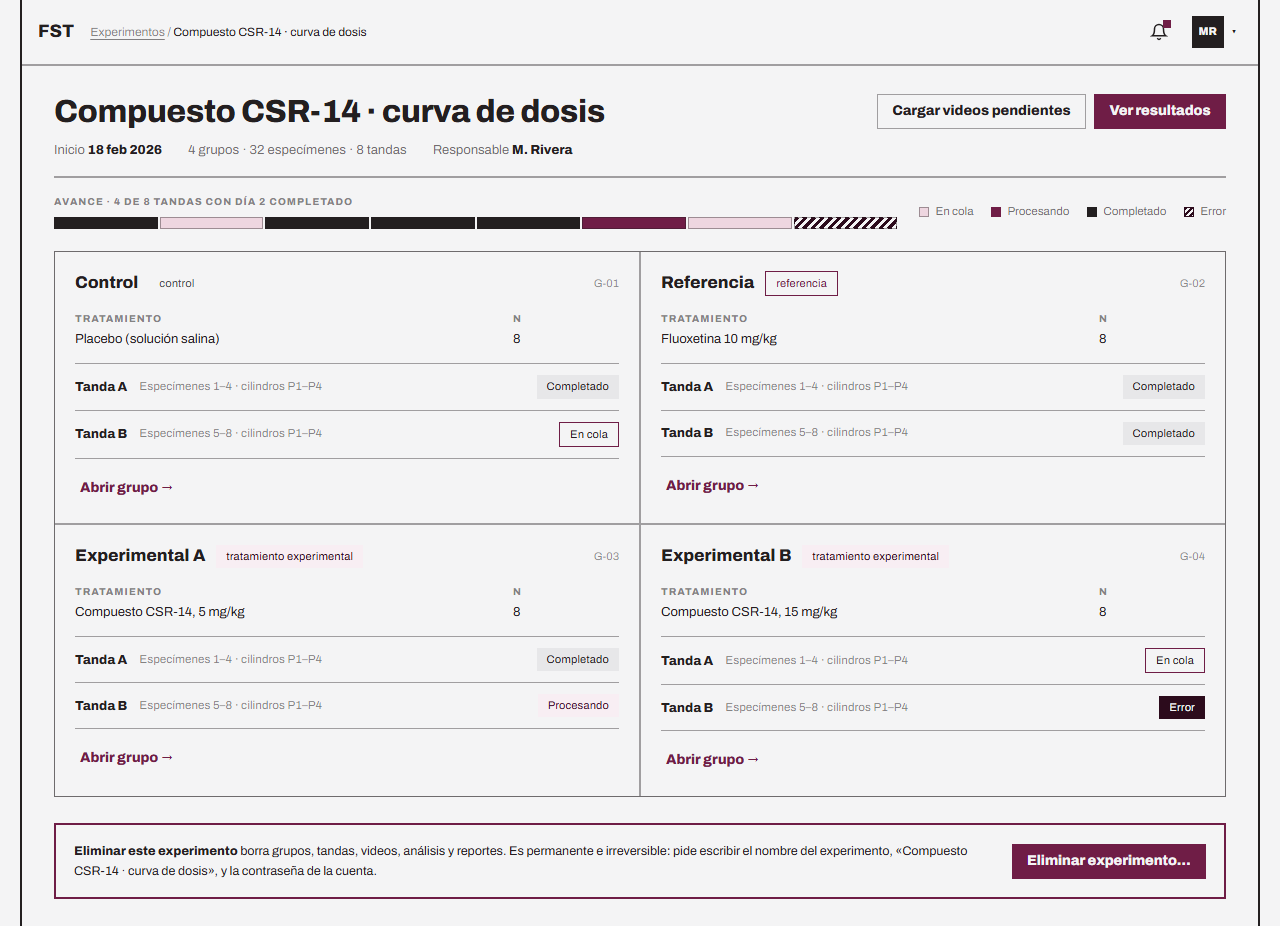
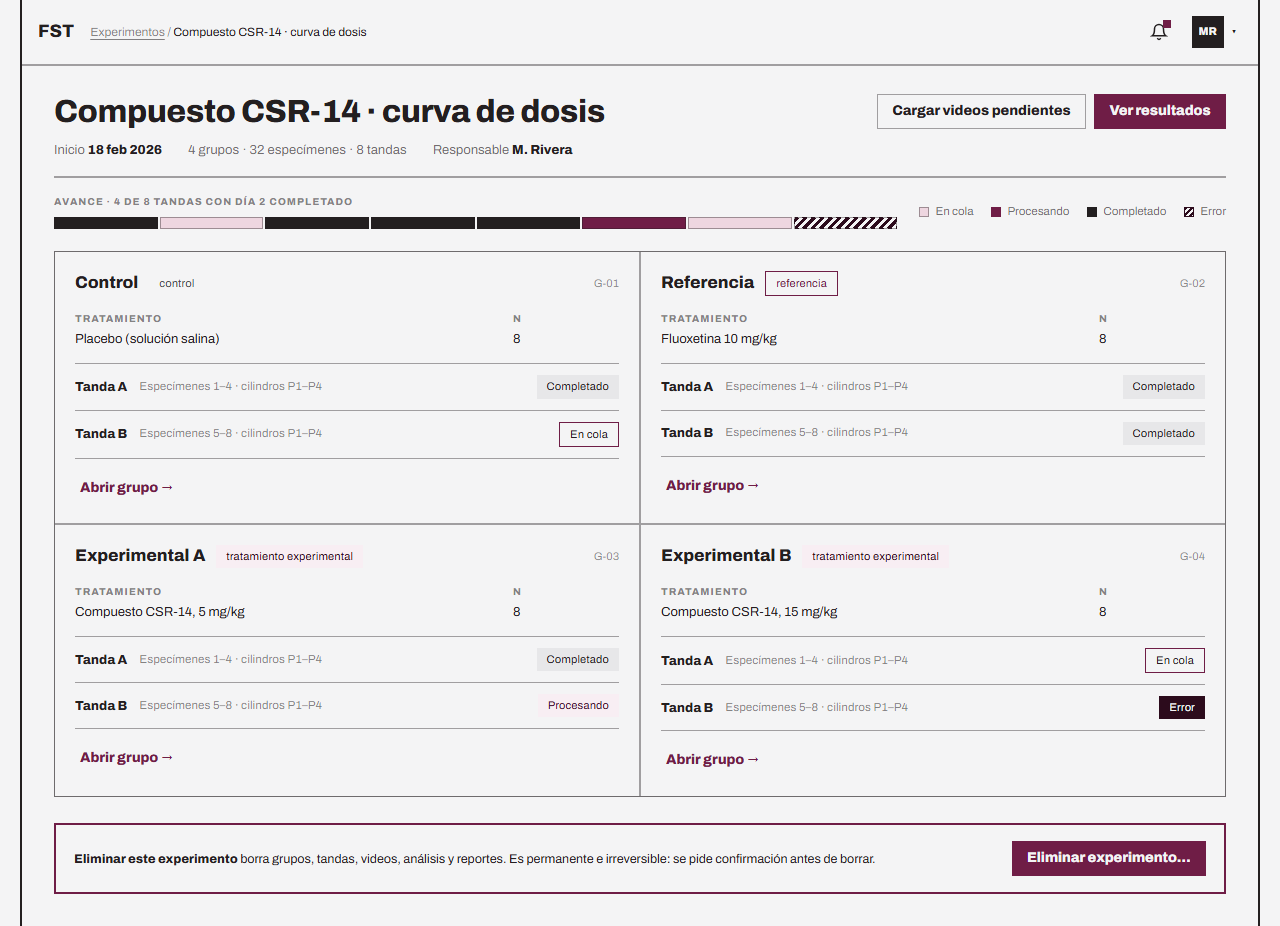
Actualizar los mockups de eliminar experimento según D-63
El detalle del experimento ya no pide el nombre ni la contraseña: el diálogo
pregunta si se quiere eliminar, recuerda que es permanente e irreversible y
ofrece «Eliminar experimento» y «Cancelar», con el foco en «Cancelar». El aviso
del pie dice que se pide confirmación antes de borrar.

La lista de experimentos agrega la acción «Eliminar…» en cada fila que el
usuario puede borrar (quien lo creó o un administrador) con el mismo diálogo, y
su nota ya no dice que la acción solo vive en el detalle. Se regeneran las
capturas de experimento y experimentos que entran al capítulo 5.

Changed region(s): [[0.0625, 0.9071, 0.75, 0.9676], [0.7812, 0.9071, 0.9375, 0.9676]]

diff --git a/mockups/v2/experimentos.html b/mockups/v2/experimentos.html
@@ -40,13 +40,25 @@
 
     <table class="table">
       <thead><tr>
-        <th style="width:29%">Experimento</th><th>Grupos</th><th>Especímenes</th><th style="width:14%">Videos Día 2</th><th>Estado</th><th>Responsable</th><th>Retención</th><th>Reporte</th>
+        <th style="width:29%">Experimento</th><th>Grupos</th><th>Especímenes</th><th style="width:14%">Videos Día 2</th><th>Estado</th><th>Responsable</th><th>Retención</th><th>Reporte</th><th>Acciones</th>
       </tr></thead>
       <tbody id="rows"></tbody>
     </table>
     <p id="empty" class="hint hidden" style="margin:14px 0 0">Ningún experimento coincide con la búsqueda.</p>
-    <p style="margin:14px 0 0;font-size:11.5px;color:var(--muted)">Eliminar un experimento es permanente e irreversible: la acción vive dentro del detalle del experimento, nunca en esta lista.</p>
+    <p style="margin:14px 0 0;font-size:11.5px;color:var(--muted)">Eliminar un experimento es permanente e irreversible: se puede hacer desde esta lista o desde el detalle del experimento, y solo lo puede hacer quien lo creó o un administrador. Antes de borrar se pide confirmación.</p>
   </div>
+</div>
+
+<!-- diálogo de eliminación -->
+<div class="dialog-backdrop hidden" id="dlg">
+  <form class="dialog" id="fDel" novalidate role="dialog" aria-modal="true" aria-labelledby="dlgT">
+    <div class="dialog-title" id="dlgT">Eliminar experimento</div>
+    <div class="dialog-body" style="font-size:12.5px;line-height:1.6">¿Eliminar «<span id="dlgNombre"></span>»? Borra grupos, tandas, videos, análisis y reportes. Es permanente e irreversible.</div>
+    <div class="dialog-actions" style="justify-content:flex-start">
+      <button type="submit" class="btn btn-primary" id="dOk">Eliminar experimento</button>
+      <button type="button" class="btn btn-secondary" id="dCancel">Cancelar</button>
+    </div>
+  </form>
 </div>
 
 <script>
@@ -78,6 +90,10 @@
   const norm = s => s.normalize('NFD').replace(/[̀-ͯ]/g, '').toLowerCase();
   const chip = (label, href) => '<a class="chip" href="' + href + '">' + label + '</a>';
 
+  // D-43: solo quien creó el experimento o un administrador puede eliminarlo.
+  const sesion = FST.USERS[document.querySelector('.nav[data-user]').dataset.user] || FST.USERS.MR;
+  const puedeEliminar = e => sesion.admin || e.responsable === sesion.nombre.split(' ')[0][0] + '. ' + sesion.nombre.split(' ')[1];
+
   function render() {
     const f = FILTROS.find(x => x.v === FST.segValue(segEl));
     const q = norm(document.getElementById('q').value.trim());
@@ -96,11 +112,35 @@
         '<td style="font-size:13px">' + e.responsable + '</td>' +
         '<td class="num" style="font-size:12px;color:' + e.retFg + '">' + e.retencion + '</td>' +
         '<td><div style="display:flex;gap:4px">' + chip('CSV', 'resultados.html') + chip('XLSX', 'resultados.html') + chip('PDF', 'resultados.html') + '</div></td>' +
+        '<td>' + (puedeEliminar(e) ? '<button type="button" class="btn btn-secondary" data-del="' + e.clave + '" style="padding:4px 10px;font-size:11.5px">Eliminar…</button>' : '<span style="font-size:11.5px;color:var(--muted)">—</span>') + '</td>' +
       '</tr>';
     }).join('');
     document.getElementById('empty').classList.toggle('hidden', list.length > 0);
   }
   render();
+
+  // ── eliminar desde la lista (D-63: solo una confirmación, sin nombre ni contraseña) ──
+  let porEliminar = null;
+  const dlg = document.getElementById('dlg');
+  const cerrar = () => { dlg.classList.add('hidden'); porEliminar = null; };
+  document.getElementById('rows').addEventListener('click', ev => {
+    const b = ev.target.closest('[data-del]');
+    if (!b) return;
+    porEliminar = experiments.find(e => e.clave === b.dataset.del);
+    document.getElementById('dlgNombre').textContent = porEliminar.titulo;
+    dlg.classList.remove('hidden');
+    document.getElementById('dCancel').focus(); // el foco empieza en «Cancelar»
+  });
+  document.getElementById('dCancel').onclick = cerrar;
+  dlg.addEventListener('click', ev => { if (ev.target === dlg) cerrar(); });
+  document.addEventListener('keydown', ev => { if (ev.key === 'Escape') cerrar(); });
+  document.getElementById('fDel').onsubmit = ev => {
+    ev.preventDefault();
+    experiments = experiments.filter(e => e !== porEliminar);
+    segEl.querySelectorAll('.seg-opt').forEach((el, i) => { el.textContent = FILTROS[i].label + ' · ' + experiments.filter(FILTROS[i].test).length; });
+    cerrar();
+    render();
+  };
 </script>
 </body>
 </html>

diff --git a/mockups/v2/experimento.html b/mockups/v2/experimento.html
@@ -56,7 +56,7 @@
     <div id="grupos" style="display:grid;grid-template-columns:1fr 1fr;gap:2px;background:var(--color-divider);border:1px solid var(--color-divider)"></div>
 
     <div style="margin-top:26px;border:2px solid var(--color-accent);display:flex;align-items:center;gap:20px;padding:16px 18px">
-      <div style="flex:1;font-size:12.5px;line-height:1.6"><strong>Eliminar este experimento</strong> borra grupos, tandas, videos, análisis y reportes. Es permanente e irreversible: pide escribir el nombre del experimento, «<span id="nombreDel"></span>», y la contraseña de la cuenta.</div>
+      <div style="flex:1;font-size:12.5px;line-height:1.6"><strong>Eliminar este experimento</strong> borra grupos, tandas, videos, análisis y reportes. Es permanente e irreversible: se pide confirmación antes de borrar.</div>
       <button type="button" class="btn btn-primary" id="btnDel">Eliminar experimento…</button>
     </div>
   </div>
@@ -66,11 +66,9 @@
 <div class="dialog-backdrop hidden" id="dlg">
   <form class="dialog" id="fDel" novalidate role="dialog" aria-modal="true" aria-labelledby="dlgT">
     <div class="dialog-title" id="dlgT">Eliminar experimento</div>
-    <div class="dialog-body" style="font-size:12.5px;line-height:1.6">Borra grupos, tandas, videos, análisis y reportes. Es permanente e irreversible.</div>
-    <div class="field"><label for="dNombre">Escribe el nombre del experimento, «<span id="dlgNombre"></span>»</label><input class="input" id="dNombre" autocomplete="off"></div>
-    <div class="field"><label for="dPass">Contraseña de la cuenta</label><input class="input num" id="dPass" type="password" autocomplete="current-password"></div>
+    <div class="dialog-body" style="font-size:12.5px;line-height:1.6">¿Eliminar «<span id="dlgNombre"></span>»? Borra grupos, tandas, videos, análisis y reportes. Es permanente e irreversible.</div>
     <div class="dialog-actions" style="justify-content:flex-start">
-      <button type="submit" class="btn btn-primary" id="dOk" disabled>Eliminar experimento</button>
+      <button type="submit" class="btn btn-primary" id="dOk">Eliminar experimento</button>
       <button type="button" class="btn btn-secondary" id="dCancel">Cancelar</button>
     </div>
   </form>
@@ -122,19 +120,15 @@
     $('btnDel').disabled = true;
     $('btnDel').insertAdjacentHTML('afterend', '<span style="font-size:11.5px">Solo quien creó el experimento o un administrador puede eliminarlo.</span>');
   }
-  $('nombreDel').textContent = exp.titulo;
   $('dlgNombre').textContent = exp.titulo;
-  const check = () => { $('dOk').disabled = !($('dNombre').value === exp.titulo && $('dPass').value.length > 0); };
-  $('dNombre').addEventListener('input', check);
-  $('dPass').addEventListener('input', check);
-  const close = () => { $('dlg').classList.add('hidden'); $('fDel').reset(); check(); };
-  $('btnDel').onclick = () => { $('dlg').classList.remove('hidden'); $('dNombre').focus(); };
+  const close = () => { $('dlg').classList.add('hidden'); };
+  // D-63: solo una confirmación; el foco empieza en «Cancelar» para que un Enter accidental no borre nada.
+  $('btnDel').onclick = () => { $('dlg').classList.remove('hidden'); $('dCancel').focus(); };
   $('dCancel').onclick = close;
   $('dlg').addEventListener('click', e => { if (e.target === $('dlg')) close(); });
   document.addEventListener('keydown', e => { if (e.key === 'Escape') close(); });
   $('fDel').onsubmit = e => {
     e.preventDefault();
-    if ($('dOk').disabled) return;
     location.href = 'experimentos.html?eliminado=' + encodeURIComponent(exp.clave);
   };
 </script>
